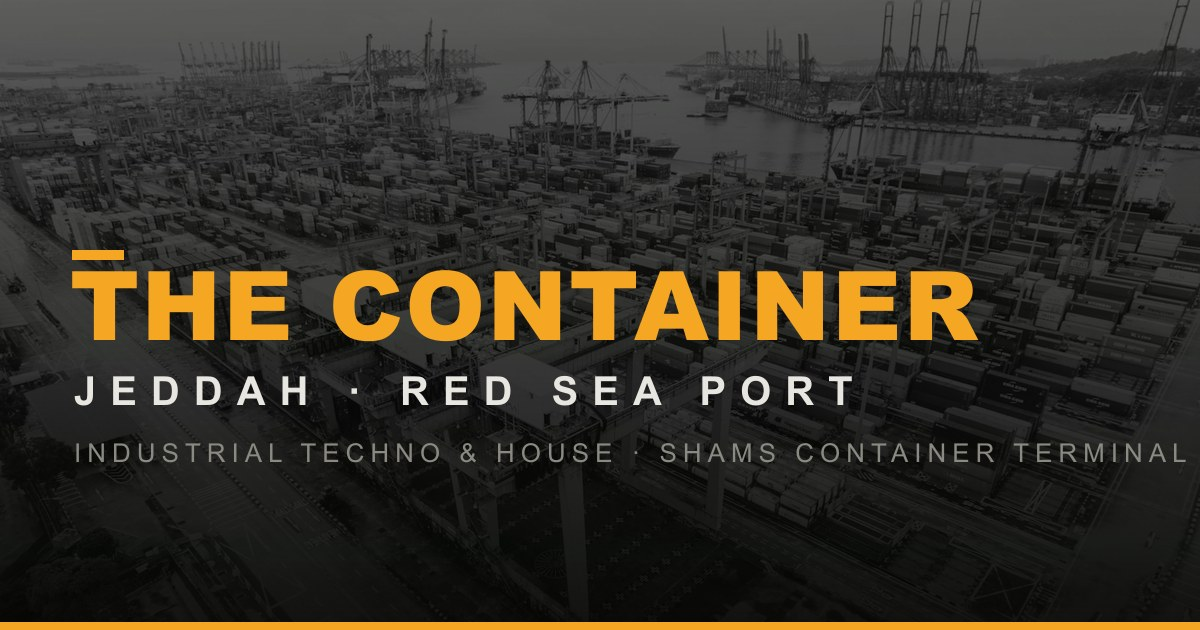
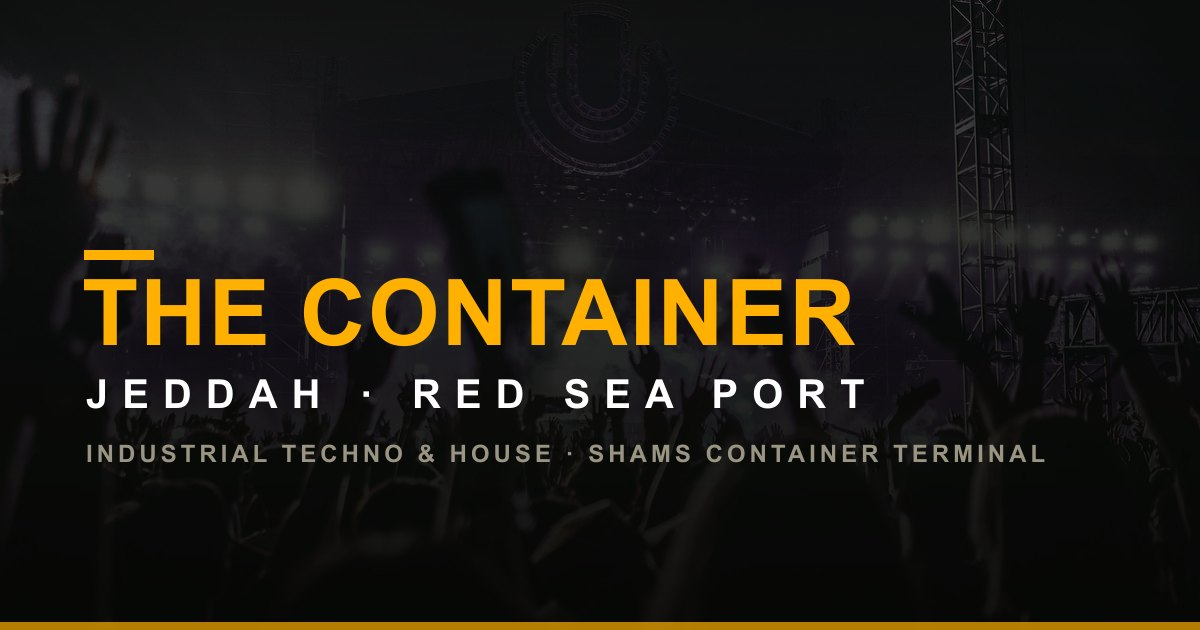
Swap hero/og image to live-event-in-industrial-port (crowd + lights + steel)
The hero backdrop and OG card were an empty container-yard/cargo shot, so
the site read as a shipping terminal rather than a music venue. Replace both
with a real festival photo: dense crowd with hands up + stage lights + steel
truss towers, so the manifest/terminal design now reads as a live electronic
event INSIDE an industrial/port space. Add scripts/build-og.mjs (sharp) to
regenerate the 1200x630 OG card with the darkened terminal-style text overlay
on the new backdrop; declare sharp as a devDependency.

diff --git a/components/Hero.tsx b/components/Hero.tsx
@@ -10,7 +10,7 @@ export function Hero() {
 
   return (
     <section id="top" className="relative overflow-hidden border-b border-line">
-      {/* Gritty port image, heavily darkened, as backdrop */}
+      {/* Live-event-in-industrial-port image (crowd + stage lights + steel structures), heavily darkened, as decorative backdrop */}
       <div className="pointer-events-none absolute inset-0 -z-10">
         <img
           src="/images/port.jpg"